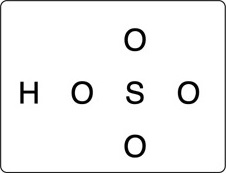
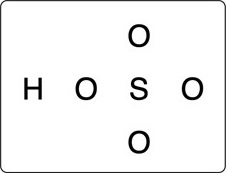
double positions

diff --git a/Scripts/Tema 1/Parte 1/Ejer112.cs b/Scripts/Tema 1/Parte 1/Ejer112.cs
@@ -34,14 +34,14 @@ public class Ejer112 : MonoBehaviour
             [13] = "vertical",
             [15] = "vertical",
             [21] = "horizontal",
-            [23] = "horizontal",
-            [29] = "vertical",
+            [23] = "horizontal-double",
             [25] = "horizontal",
             [26] = "menos",
+            [29] = "vertical",
             [31] = "vertical",
             [33] = "vertical",
             [39] = "horizontal",
-            [41] = "horizontal",
+            [41] = "horizontal-double",
             [43] = "horizontal",
             [49] = "vertical",
             [51] = "vertical",
@@ -51,7 +51,7 @@ public class Ejer112 : MonoBehaviour
             [5] = "vertical",
             [7] = "vertical",
             [11] = "horizontal",
-            [17] = "vertical",
+            [17] = "vertical-double",
             [21] = "horizontal",
             [25] = "vertical",
             [27] = "vertical",
